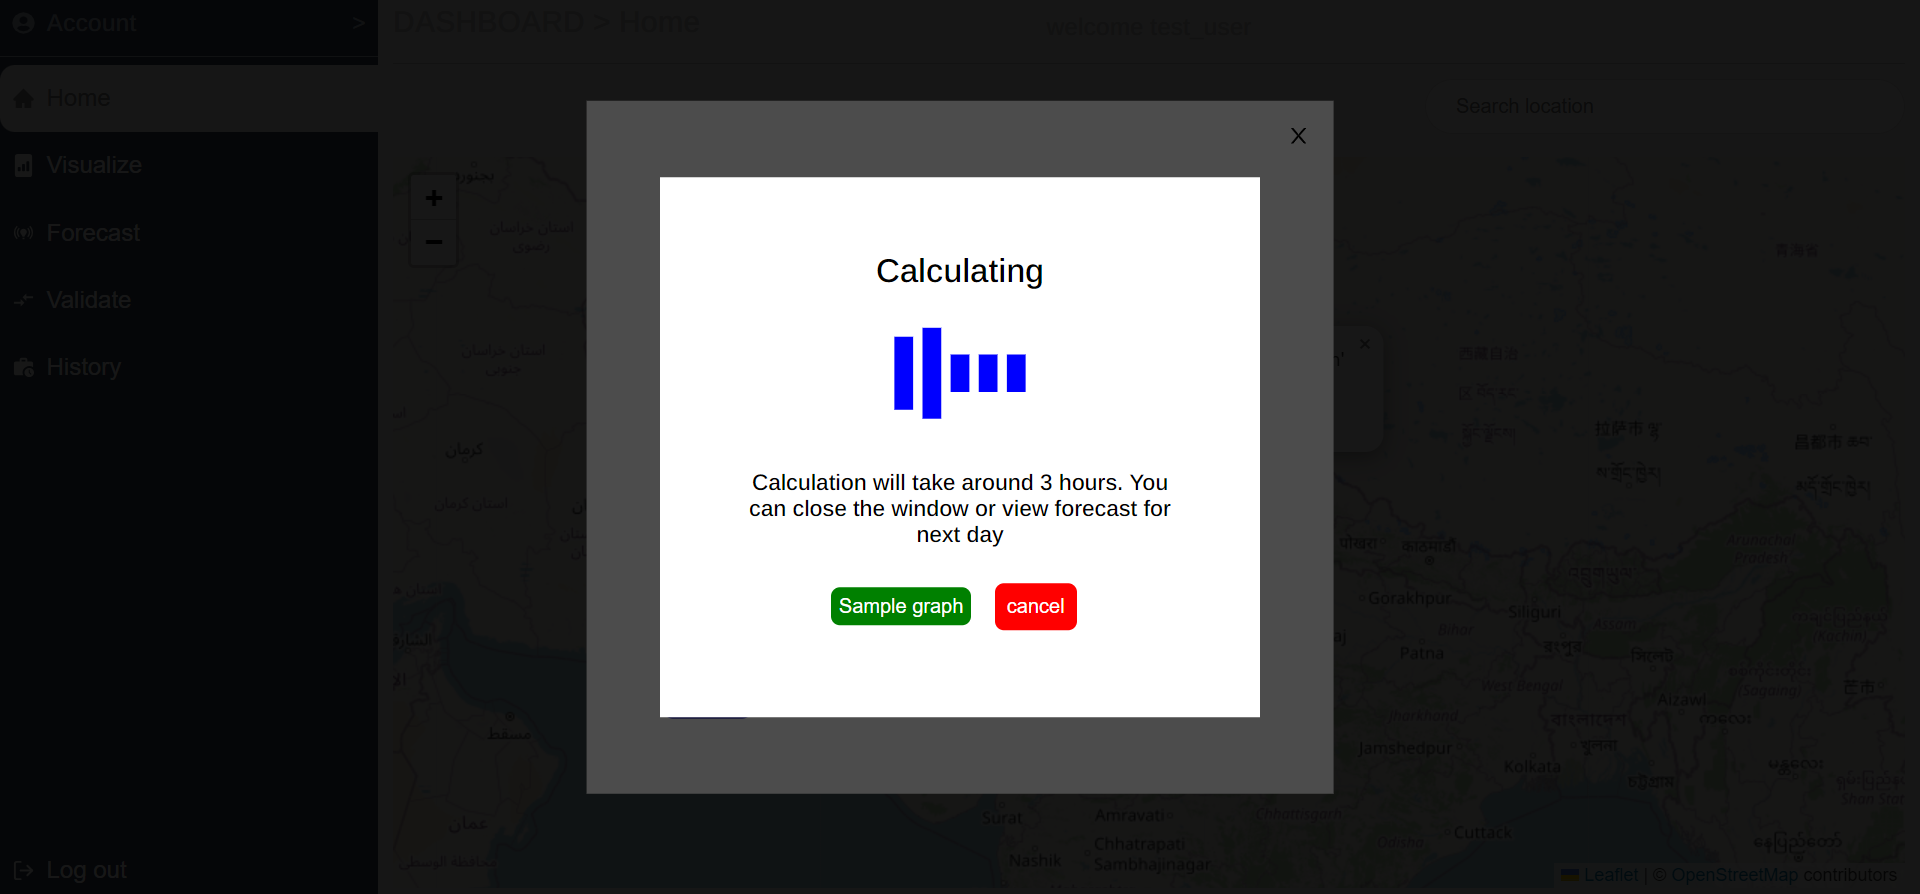
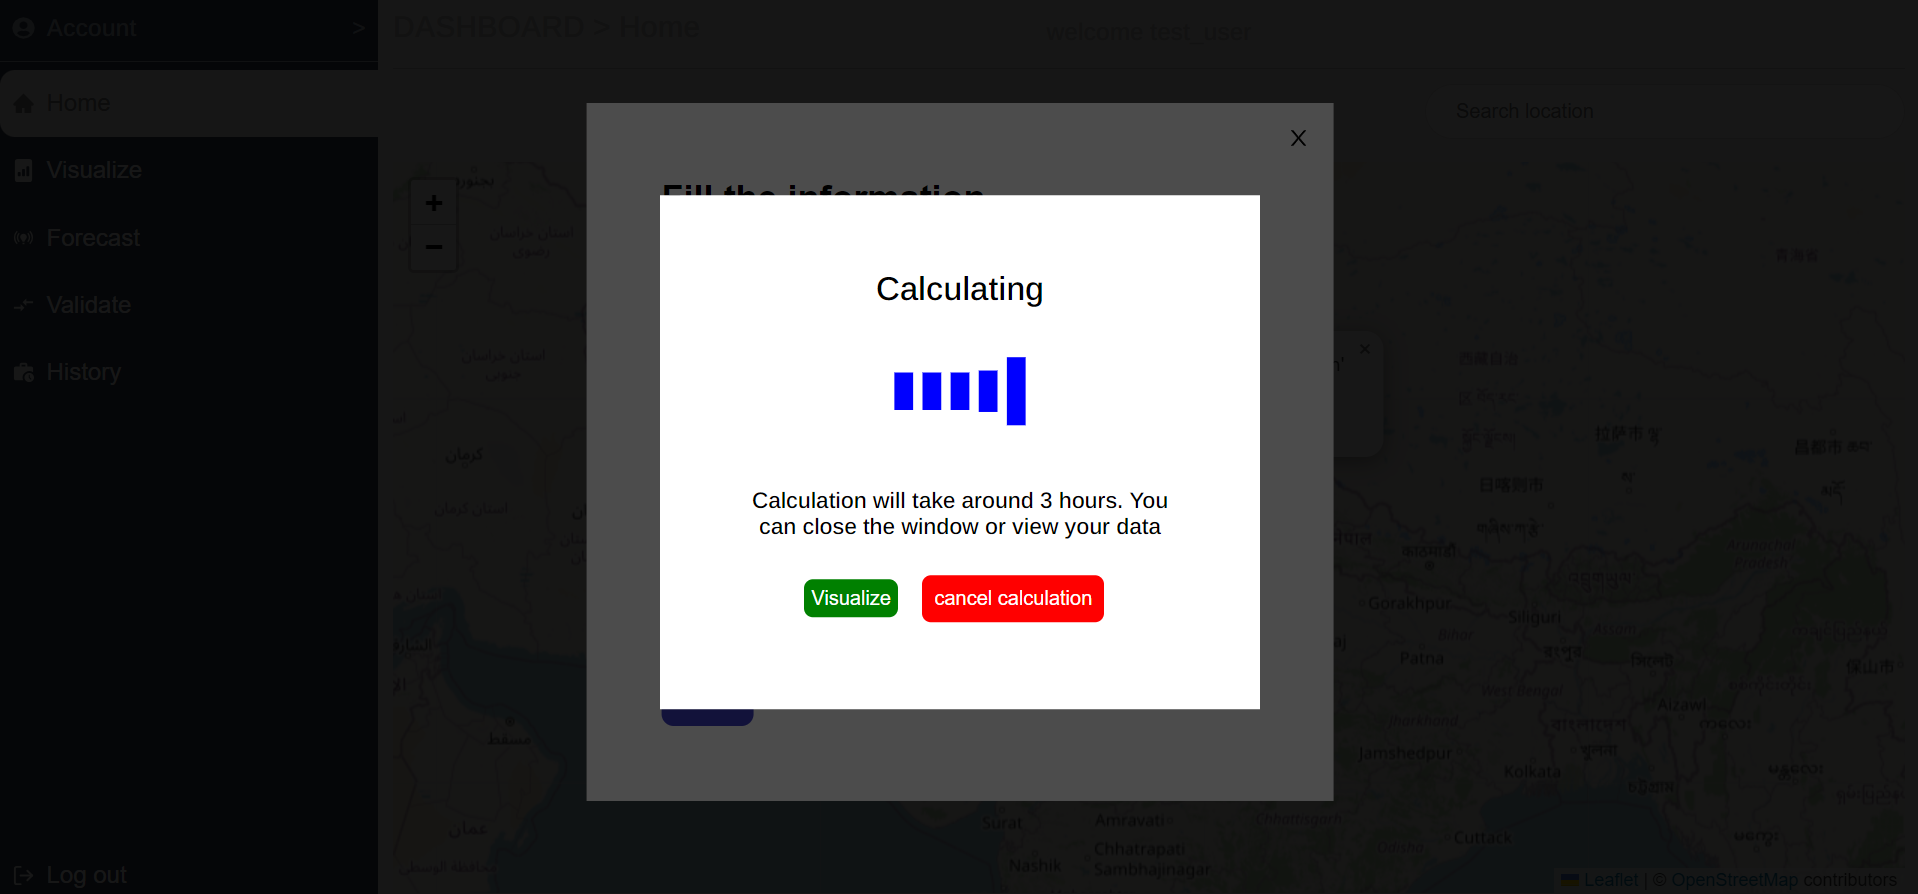
login issue fixed+replaced old fotos

diff --git a/src/components/Login/Login.js b/src/components/Login/Login.js
@@ -18,18 +18,22 @@ function Login() {
 
   const handleSubmit = async (event) => {
     event.preventDefault();
-    const result = await fetch("/login", {
-      method: "POST",
-      headers: {
-        "Content-Type": "application/json",
-      },
-      body: JSON.stringify({ email, password }),
-    });
-    if (result.status === 200) {
+    const result = await axios.post("/login", { email, password })
+    if (result.data.length !== 0) {
       window.location.href = 'http://localhost:3000/'
       // navigate(`/`);
     } else {
       navigate("/login");
+      toast.warn('Incorrect credentials!', {
+        position: "top-center",
+        autoClose: 5000,
+        hideProgressBar: false,
+        closeOnClick: true,
+        pauseOnHover: true,
+        draggable: true,
+        progress: 0,
+        theme: "light",
+        });
     }
   };
 

diff --git a/src/components/Pages/Offer.js b/src/components/Pages/Offer.js
@@ -7,8 +7,8 @@ import Offer3 from "../../Images/validate.png";
 function Offer() {
   return (
     <>
-    <div className="offer-p" >
-      <p style={{fontSize:'23px', color:'purple'}}>FEATURES</p>
+    <div className="offer-p">
+      <p style={{fontSize:'23px', color:'purple', borderBottom:'1px solid purple', marginBottom:'50px'}}>FEATURES</p>
     </div>
       <div className="offer__container" style={{backgroundColor:'rgb(238, 237, 237)'}}>
         <div className="offer_txt">

diff --git a/src/components/Modal/ModalPopUp.js b/src/components/Modal/ModalPopUp.js
@@ -186,7 +186,7 @@ function ModalPopUp({ lat, lon }) {
     await axios.post("/calc-state", { isCalcDone: false });
 
     //uploading users data to mongodb
-    await api.post('/set-data', {data:state.data, _id:user._id})
+    // await api.post('/set-data', {data:state.data, _id:user._id})
 
 
     //next day date
